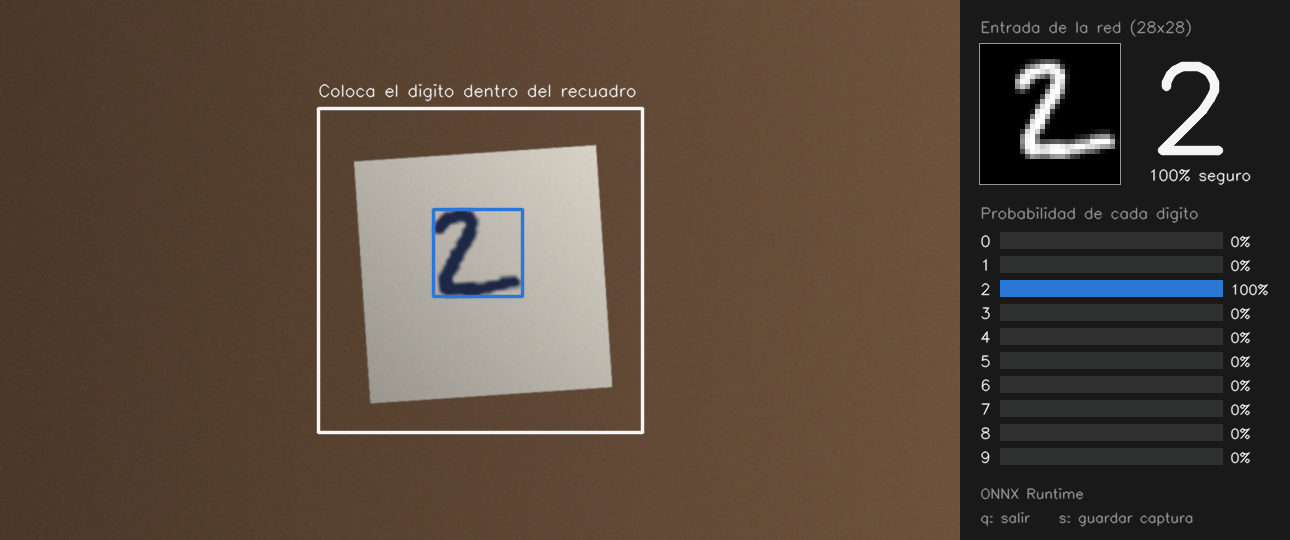
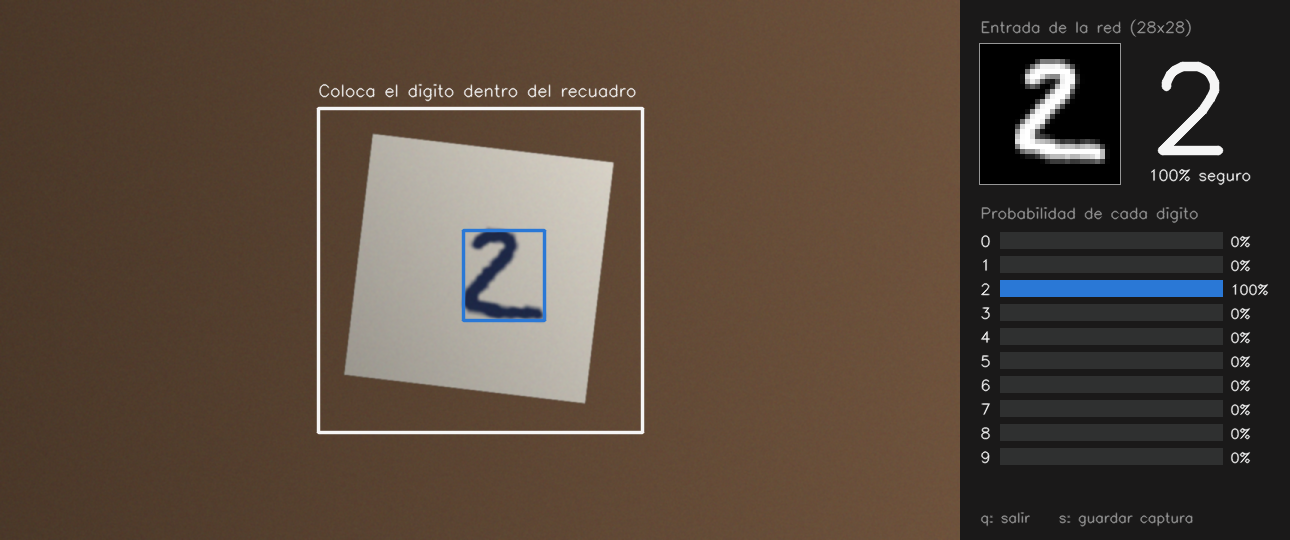
Explicar qué comprueba cada prueba y actualizar la captura de la demo

diff --git a/tests/test_preprocesado.py b/tests/test_preprocesado.py
@@ -8,6 +8,7 @@ from src.simulacion import digito_sintetico, dibujo_simulado, foto_simulada, fot
 
 
 def _comprobar_estilo_mnist(imagen):
+    """Comprueba que la imagen es como las de MNIST: 28x28, valores en [0, 1], centrada y en una caja de unos 20x20."""
     assert imagen.shape == (LADO_SALIDA, LADO_SALIDA)
     assert imagen.dtype == np.float32
     assert 0.0 <= imagen.min() and imagen.max() <= 1.0
@@ -19,24 +20,28 @@ def _comprobar_estilo_mnist(imagen):
 
 
 def test_foto_de_papel():
+    """Una foto de un dígito escrito en papel sale con el formato de MNIST."""
     resultado = preprocesar(foto_simulada(digito_sintetico("7"), semilla=3))
     assert resultado.imagen_28 is not None
     _comprobar_estilo_mnist(resultado.imagen_28)
 
 
 def test_dibujo_sobre_fondo_negro():
+    """Un trazo blanco sobre fondo negro (como un dibujo en la web) también funciona."""
     resultado = preprocesar(dibujo_simulado(digito_sintetico("3")))
     assert resultado.imagen_28 is not None
     _comprobar_estilo_mnist(resultado.imagen_28)
 
 
 def test_imagen_vacia_no_inventa_un_digito():
+    """Un papel en blanco con algo de ruido no da ningún dígito."""
     papel = np.full((300, 300, 3), 220, np.uint8)
     papel = cv2.GaussianBlur(papel + np.random.default_rng(0).integers(0, 6, papel.shape, dtype=np.uint8), (3, 3), 0)
     assert preprocesar(papel).imagen_28 is None
 
 
 def test_ignora_el_borde_del_papel():
+    """Una franja oscura pegada al borde de la foto no se toma por parte del dígito."""
     foto = foto_simulada(digito_sintetico("4"), semilla=1)
     foto[:, :12] = 30  # una franja oscura pegada al borde (la mesa, por ejemplo)
     resultado = preprocesar(foto)
@@ -45,7 +50,7 @@ def test_ignora_el_borde_del_papel():
 
 
 def test_hoja_entera_dentro_del_recuadro_de_la_webcam():
-    # la hoja se ve entera sobre una mesa oscura: su borde no debe tomarse por un trazo (parecería un 0)
+    """Si la hoja se ve entera sobre la mesa, su borde no se confunde con un trazo (parecería un 0)."""
     frame = fotograma_simulado(digito_sintetico("5"), semilla=2)
     x, y, lado = recuadro_central(frame)
     resultado = preprocesar(frame[y : y + lado, x : x + lado], fondo="claro")
@@ -56,11 +61,13 @@ def test_hoja_entera_dentro_del_recuadro_de_la_webcam():
 
 
 def test_recuadro_central_es_cuadrado_y_centrado():
+    """En un fotograma de 1280x720, el recuadro mide el 60 % del lado menor y está centrado."""
     x, y, lado = recuadro_central(np.zeros((720, 1280, 3), np.uint8))
     assert lado == 432 and (x, y) == (424, 144)
 
 
 def test_foto_grande_de_movil_da_la_caja_en_coordenadas_originales():
+    """Una foto 10 veces más grande da casi la misma imagen de 28x28 y la caja medida en la foto original."""
     pequena = foto_simulada(digito_sintetico("2"), semilla=4)
     grande = cv2.resize(pequena, None, fx=10, fy=10, interpolation=cv2.INTER_CUBIC)  # 3600 x 3600 px
     r_pequena, r_grande = preprocesar(pequena), preprocesar(grande)

diff --git a/tests/test_demo.py b/tests/test_demo.py
@@ -16,22 +16,27 @@ class CamaraSimulada:
     """Imita cv2.VideoCapture: devuelve unos cuantos fotogramas con un dígito y luego se acaba."""
 
     def __init__(self, n=12):
+        """Prepara n fotogramas simulados de webcam con un 3 escrito en una hoja."""
         self.fotogramas = [fotograma_simulado(digito_sintetico("3"), 640, 480, semilla=i) for i in range(n)]
 
     def isOpened(self):
+        """La cámara simulada siempre está disponible."""
         return True
 
     def read(self):
+        """Devuelve el siguiente fotograma, o (False, None) cuando ya no quedan."""
         if not self.fotogramas:
             return False, None
         return True, self.fotogramas.pop(0)
 
     def release(self):
+        """No hay nada que cerrar."""
         pass
 
 
 @pytest.mark.skipif(not HAY_MODELO, reason="falta el modelo entrenado")
 def test_demo_procesa_fotogramas_y_graba_el_gif(tmp_path, monkeypatch):
+    """La demo enseña los 12 fotogramas con el panel lateral y guarda un GIF que no está vacío."""
     import demo_webcam
 
     mostrados = []

diff --git a/tests/test_modelos.py b/tests/test_modelos.py
@@ -14,6 +14,7 @@ RAIZ = Path(__file__).resolve().parent.parent
 
 @pytest.mark.parametrize("nombre", ["mlp", "lenet", "cnn_aumentada"])
 def test_forma_de_la_salida(nombre):
+    """Cada red devuelve 10 puntuaciones por imagen."""
     modelo = crear_modelo(nombre).eval()
     with torch.no_grad():
         salida = modelo(torch.zeros(3, 1, 28, 28))
@@ -21,6 +22,7 @@ def test_forma_de_la_salida(nombre):
 
 
 def test_aumento_mantiene_forma_y_rango():
+    """El aumento de datos no cambia la forma del lote ni saca los píxeles de [0, 1]."""
     x = torch.rand(8, 1, 28, 28)
     y = aumentar_lote(x.clone(), torch.Generator().manual_seed(0))
     assert y.shape == x.shape
@@ -29,6 +31,7 @@ def test_aumento_mantiene_forma_y_rango():
 
 @pytest.mark.skipif(not (RAIZ / "models" / "cnn_aumentada.onnx").exists(), reason="falta el modelo entrenado")
 def test_onnx_y_pytorch_dan_lo_mismo():
+    """La red exportada a ONNX da las mismas puntuaciones que en PyTorch."""
     import onnxruntime as ort
 
     modelo = crear_modelo("cnn_aumentada")

diff --git a/tests/test_extremo_a_extremo.py b/tests/test_extremo_a_extremo.py
@@ -12,6 +12,7 @@ HAY_DATOS = (RAIZ / "data" / "MNIST" / "raw").exists()
 
 @pytest.mark.skipif(not (HAY_MODELO and HAY_DATOS), reason="faltan el modelo entrenado o MNIST")
 def test_reconoce_fotos_simuladas_de_digitos_del_test():
+    """Con 200 fotos simuladas de dígitos del test, la cadena completa acierta al menos el 95 %."""
     from torchvision import datasets
 
     from src.inferencia import Clasificador
@@ -31,7 +32,7 @@ def test_reconoce_fotos_simuladas_de_digitos_del_test():
 
 @pytest.mark.skipif(not (HAY_MODELO and HAY_DATOS), reason="faltan el modelo entrenado o MNIST")
 def test_reconoce_fotogramas_simulados_de_la_webcam():
-    # hoja entera dentro del recuadro, sobre una mesa oscura y algo girada, como en la demo
+    """Con 100 fotogramas simulados (la hoja entera sobre una mesa, algo girada, como en la demo), acierta al menos el 95 %."""
     from torchvision import datasets
 
     from src.inferencia import Clasificador

diff --git a/tests/test_ssim.py b/tests/test_ssim.py
@@ -7,6 +7,7 @@ from src.ssim import ssim_por_pares
 
 
 def test_coincide_con_skimage():
+    """El SSIM de cada pareja coincide con el de scikit-image y vale 1 en la pareja idéntica."""
     rng = np.random.default_rng(0)
     A = rng.random((4, 28, 28)).astype(np.float32)
     B = rng.random((5, 28, 28)).astype(np.float32)
@@ -19,6 +20,7 @@ def test_coincide_con_skimage():
 
 
 def test_bloques_no_cambian_el_resultado():
+    """Calcular por bloques más pequeños da el mismo resultado."""
     rng = np.random.default_rng(1)
     A = rng.random((7, 28, 28)).astype(np.float32)
     B = rng.random((9, 28, 28)).astype(np.float32)

diff --git a/tests/test_app.py b/tests/test_app.py
@@ -9,6 +9,7 @@ RAIZ = Path(__file__).resolve().parent.parent
 
 @pytest.mark.skipif(not (RAIZ / "models" / "cnn_aumentada.onnx").exists(), reason="falta el modelo entrenado")
 def test_la_web_arranca_sin_errores():
+    """Se ejecuta la web como lo haría Streamlit y se comprueba el título y las tres pestañas."""
     from streamlit.testing.v1 import AppTest
 
     app = AppTest.from_file(str(RAIZ / "app_digitos.py"), default_timeout=60).run()

diff --git a/tests/test_evaluar_fotos.py b/tests/test_evaluar_fotos.py
@@ -14,6 +14,7 @@ HAY_MODELO = (RAIZ / "models" / "cnn_aumentada.onnx").exists()
 
 @pytest.mark.skipif(not HAY_MODELO, reason="falta el modelo entrenado")
 def test_evalua_una_carpeta_de_fotos(tmp_path):
+    """Con 4 fotos con etiqueta, una sin etiqueta y un .txt, evalúa solo las 4 y guarda el resumen y la figura."""
     from src.evaluar_fotos import evaluar
 
     fotos = tmp_path / "fotos"
